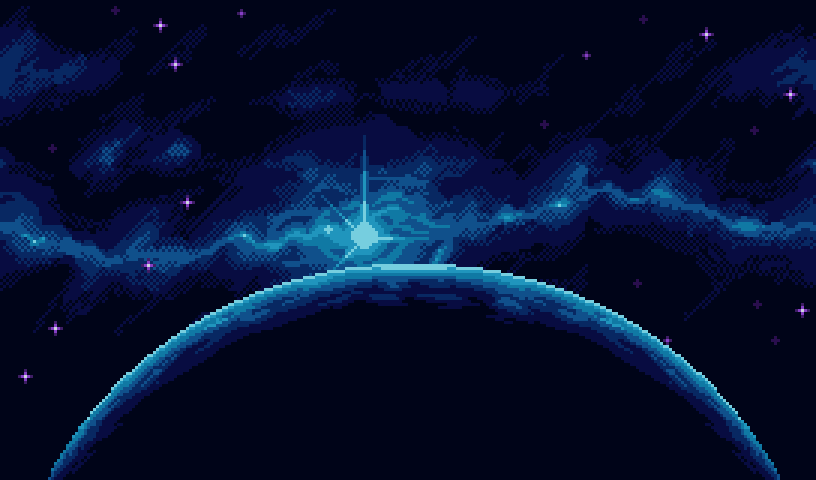
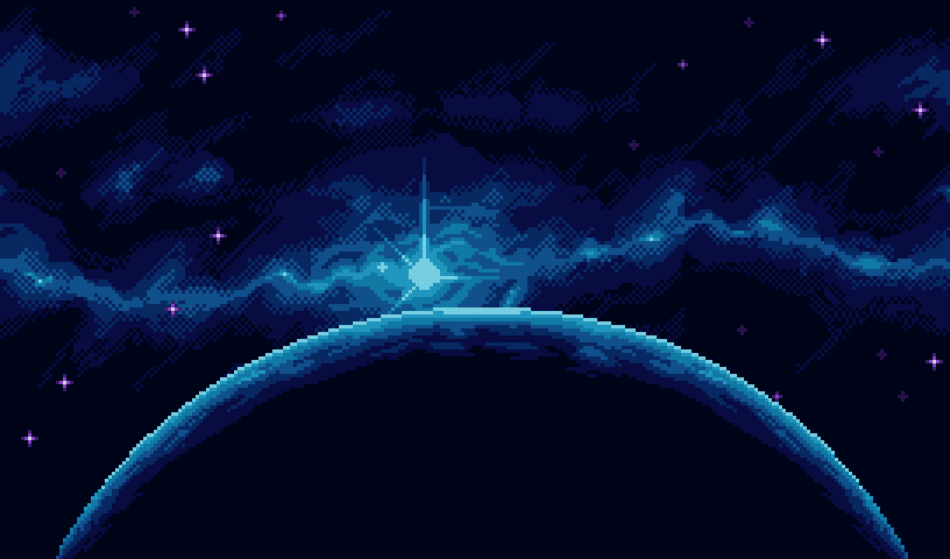
Continue working

diff --git a/src/GraphicsPanel.java b/src/GraphicsPanel.java
@@ -1,0 +1,47 @@
+import javax.imageio.ImageIO;
+import javax.swing.*;
+import java.awt.*;
+import java.awt.event.*;
+import java.awt.image.BufferedImage;
+import java.io.File;
+import java.io.IOException;
+import java.util.ArrayList;
+
+public class GraphicsPanel extends JPanel { // REMEMBER TO IMPORT THE OTHERS LATER
+    private BufferedImage spaceBackground;
+    private int numOfPlayers;
+    private Player player1;
+    private Player player2;
+    private boolean[] pressedKeys;
+    private Timer timer;
+    private int time;
+    private JButton pause;
+    private boolean isPause;
+
+    public GraphicsPanel(int numOfPlayers) {
+        try {
+            spaceBackground = ImageIO.read(new File("game-background.png"));
+            player1 = new Player("blue-spaceship.png");
+        } catch (IOException e) {
+            System.out.println(e.getMessage());
+        }
+
+        if (numOfPlayers == 2) {
+            player2 = new Player("red-spaceship.png");
+        }
+
+        this.numOfPlayers = numOfPlayers;
+
+    }
+
+    public void paintComponent(Graphics g) {
+        super.paintComponent(g);
+        g.drawImage(spaceBackground, 0, 0, null);
+        g.drawImage(player1.getPlayerImage(), player1.getX(), player1.getY(), null);
+
+        if (numOfPlayers == 2) {
+            player2.setxCoord(player1.getX() + 100);
+            g.drawImage(player2.getPlayerImage(), player2.getX(), player2.getY(), null);
+        }
+    }
+}

diff --git a/src/Player.java b/src/Player.java
@@ -1,0 +1,63 @@
+import javax.imageio.ImageIO;
+import javax.swing.*;
+import java.awt.*;
+import java.awt.event.ActionEvent;
+import java.awt.event.ActionListener;
+import java.awt.image.BufferedImage;
+import java.io.File;
+import java.io.IOException;
+import java.nio.Buffer;
+
+public class Player {
+    private BufferedImage player;
+    private int x;
+    private int y;
+    private boolean isAlive;
+    private int damage;
+
+
+    public Player(String spaceship) {
+        try {
+            player = ImageIO.read(new File(spaceship));
+        } catch (IOException e) {
+            System.out.println(e.getMessage());
+        }
+        x = 10;
+        y = 300;
+        isAlive = true;
+        damage = 1;
+    }
+
+    public BufferedImage getPlayerImage() {
+        return player;
+    }
+
+    public int getX() {
+        return x;
+    }
+
+    public int getY() {
+        return y;
+    }
+
+    public boolean getHealth() {
+        return isAlive;
+    }
+
+    public int getDamage() {
+        return damage;
+    }
+
+    public void setxCoord(int newX) {
+        x = newX;
+    }
+
+    public void setyCoord(int newY) {
+        y = newY;
+    }
+
+    public void upgradeDamage(int addDamage) {
+        damage += addDamage;
+    }
+
+}

diff --git a/src/MenuPanel.java b/src/MenuPanel.java
@@ -15,6 +15,7 @@ public class MenuPanel extends JPanel implements ActionListener {
     private JFrame enclosngFrame;
 
     public MenuPanel(JFrame frame) {
+        enclosngFrame = frame;
         try {
             menuBackground = ImageIO.read(new File("menu-background.png"));
             title = ImageIO.read(new File("title.png"));
@@ -54,7 +55,11 @@ public class MenuPanel extends JPanel implements ActionListener {
             JButton button = (JButton) e.getSource();
 
             if (button == singleplayer) {
-
+                MainFrame f = new MainFrame(1);
+                enclosngFrame.setVisible(false); // close this window
+            } else {
+                MainFrame f = new MainFrame(2);
+                enclosngFrame.setVisible(false); // close this window
             }
         }
 

diff --git a/src/MainFrame.java b/src/MainFrame.java
@@ -1,0 +1,27 @@
+import javax.swing.*;
+
+public class MainFrame implements Runnable {
+    private GraphicsPanel panel;
+
+    public MainFrame(int numOfPlayers) {
+        JFrame frame = new JFrame("Space Shooter");
+        frame.setDefaultCloseOperation(JFrame.EXIT_ON_CLOSE);
+        frame.setSize(964, 595);
+        frame.setLocationRelativeTo(null);
+
+        panel = new GraphicsPanel(numOfPlayers);
+        frame.add(panel);
+
+        frame.setVisible(true);
+
+        // animation
+        Thread thread = new Thread(this);
+        thread.start();
+    }
+
+    public void run() {
+        while (true) {
+            panel.repaint();
+        }
+    }
+}

diff --git a/src/MenuFrame.java b/src/MenuFrame.java
@@ -7,7 +7,7 @@ public class MenuFrame {
     public MenuFrame() {
         JFrame frame = new JFrame("Menu");
         frame.setDefaultCloseOperation(JFrame.EXIT_ON_CLOSE);
-        frame.setSize(816, 480);
+        frame.setSize(830, 518);
         frame.setLocationRelativeTo(null); // auto-centers frame in screen
 
         // create and add panel
@@ -16,6 +16,5 @@ public class MenuFrame {
 
         // display the frame
         frame.setVisible(true);
-
     }
 }
